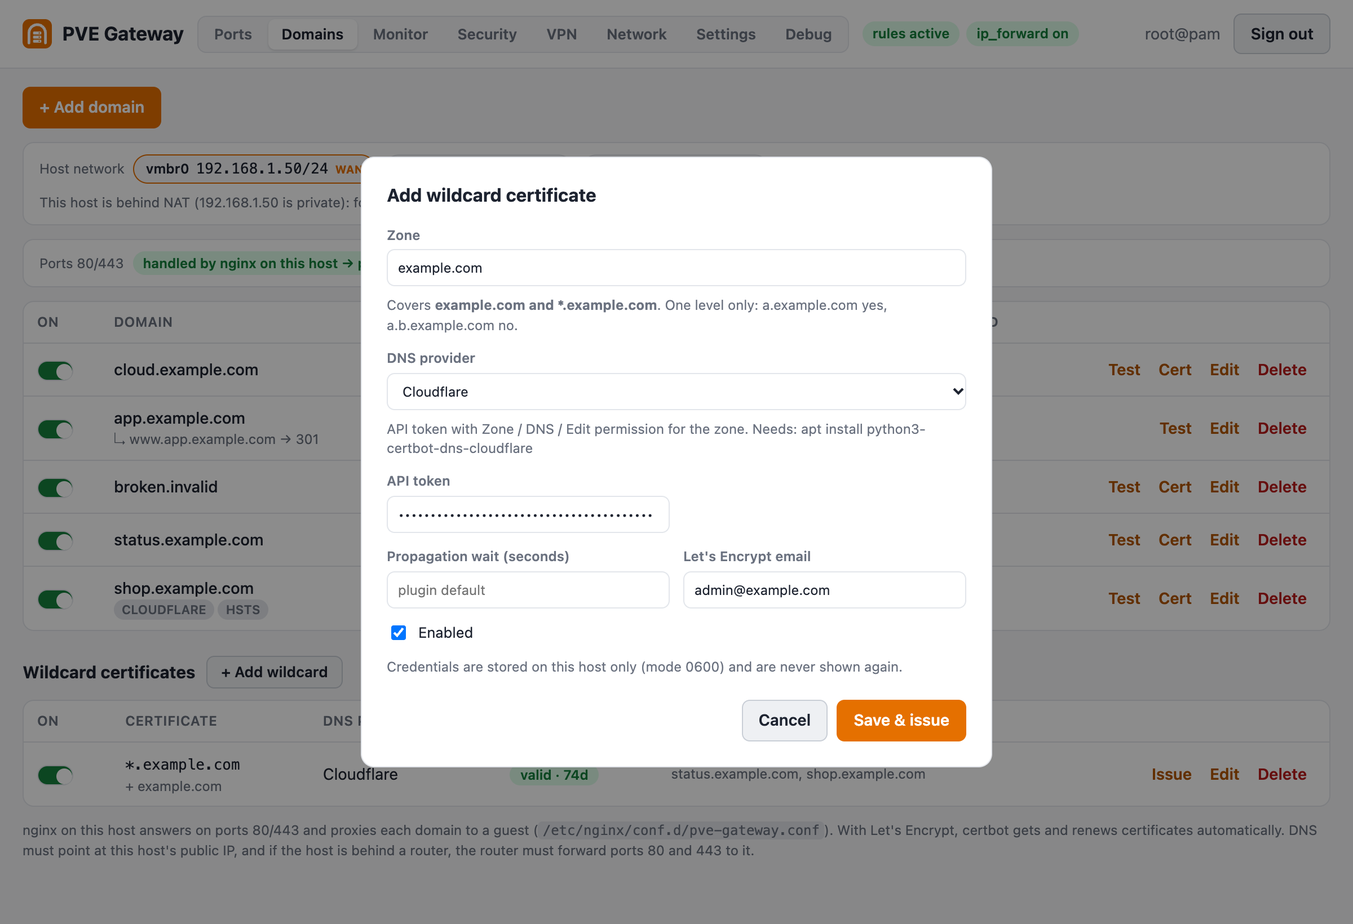
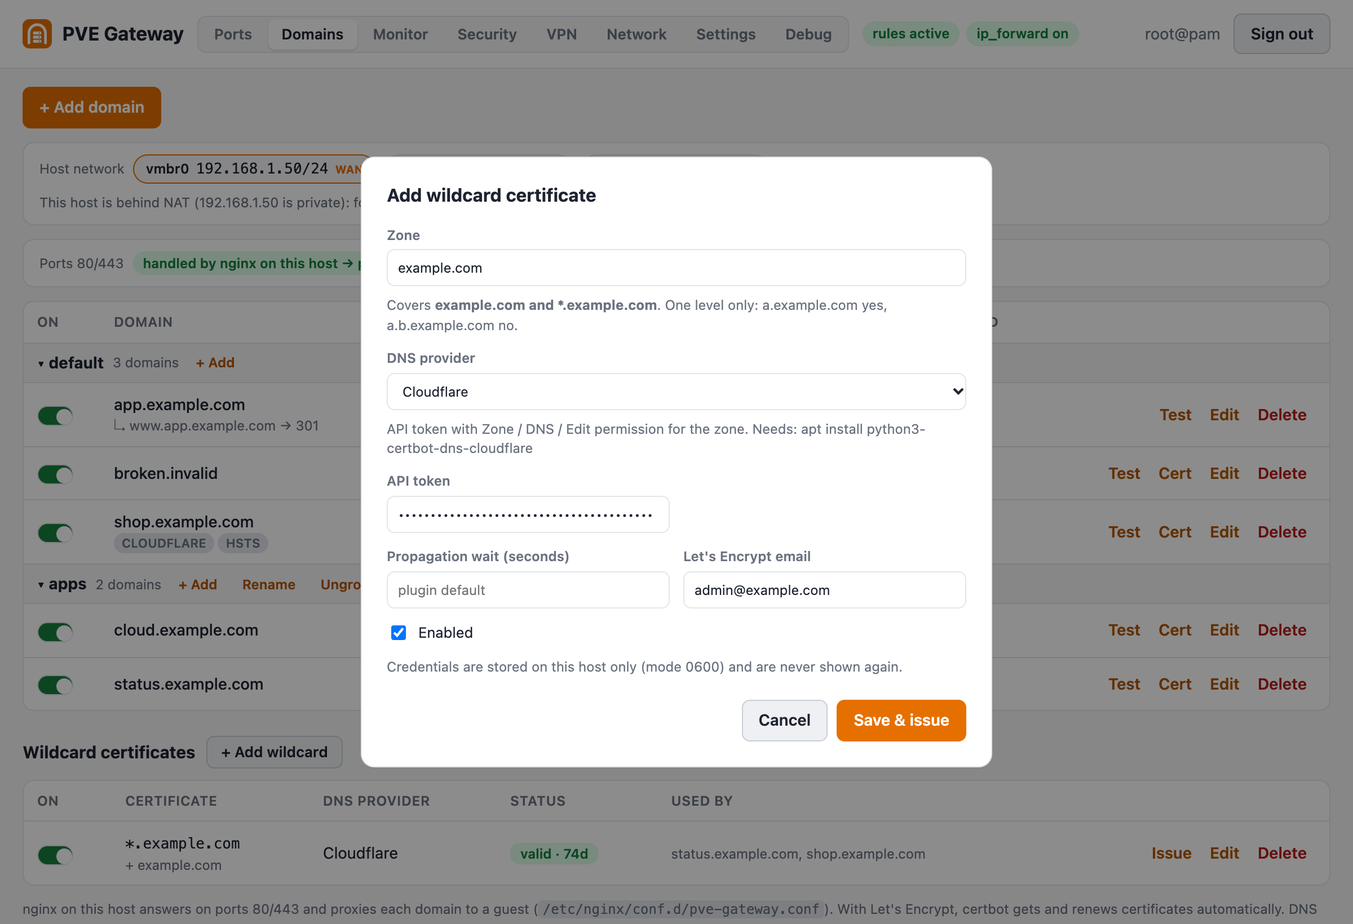
Groups for port rules and domains (v1.9.0)
- `group` on rules and domains (validated, max 30 chars); missing, empty or
  "default" -> "default", so existing configs need no migration; an invalid
  group in a hand-edited config falls back to default instead of dropping the item
- POST /api/groups renames a group or ungroups it (to "default"); listing only,
  nothing is re-applied
- UI: Group field with suggestions in both dialogs; collapsible group sections
  with count, + Add (pre-filled group), Rename, Ungroup; no headers while only
  "default" exists; collapsed state kept in localStorage
- CLI status / domains show the group; mock sample groups; docs, screenshots

diff --git a/pve-gateway.py b/pve-gateway.py
@@ -44,7 +44,7 @@ from collections import deque
 from concurrent.futures import ThreadPoolExecutor
 from http.server import BaseHTTPRequestHandler, ThreadingHTTPServer
 
-VERSION = "1.8.3"  # semantic version; bump it (and CHANGELOG.md) with every user-visible change
+VERSION = "1.9.0"  # semantic version; bump it (and CHANGELOG.md) with every user-visible change
 REPO_URL = "https://github.com/farruxx/pve-gateway"
 REPO_RAW = "https://raw.githubusercontent.com/farruxx/pve-gateway"
 CONF_DIR = os.environ.get("PVE_GATEWAY_DIR") or "/etc/pve-gateway"
@@ -120,6 +120,18 @@ def conf_file():
     return os.path.join(CONF_DIR, "config.json")
 
 
+def _loose_group(item, what):
+    """A bad group name in a hand-edited config only affects the listing - keep the item, put it in "default"."""
+    if not isinstance(item, dict):
+        return item
+    try:
+        clean_group(item.get("group"))
+        return item
+    except ApiError as e:
+        log("%s %r: %s - using the default group" % (what, item.get("name") or item.get("domain") or item.get("id"), e), "warn")
+        return dict(item, group=DEFAULT_GROUP)
+
+
 def load_config():
     cfg = json.loads(json.dumps(DEFAULTS))
     try:
@@ -140,7 +152,7 @@ def load_config():
     rules = []
     for r in cfg.get("rules", []):
         try:
-            rules.append(validate_rule(r, [], cfg, r.get("id")))
+            rules.append(validate_rule(_loose_group(r, "rule"), [], cfg, r.get("id")))
         except (ApiError, ValueError) as e:
             log("skipping invalid rule %r: %s" % (r.get("name") or r.get("id"), e), "warn")
     cfg["rules"] = rules
@@ -189,7 +201,7 @@ def load_config():
     domains = []
     for d in cfg.get("domains", []):
         try:
-            domains.append(validate_domain(d, domains, cfg, d.get("id"), check_rules=False))
+            domains.append(validate_domain(_loose_group(d, "domain"), domains, cfg, d.get("id"), check_rules=False))
         except (ApiError, ValueError) as e:
             log("skipping invalid domain %r: %s" % (d.get("domain") or d.get("id"), e), "warn")
     cfg["domains"] = domains
@@ -321,6 +333,20 @@ def protos(p):
     return ["tcp", "udp"] if p == "both" else [p]
 
 
+GROUP_RE = re.compile(r"^[A-Za-z0-9 _.:/@+-]{1,30}$")
+DEFAULT_GROUP = "default"
+
+
+def clean_group(v):
+    """Rules and domains are shown in groups; anything without one (older configs too) is in "default"."""
+    g = re.sub(r"\s+", " ", str(v or "").strip())
+    if not g or g.lower() == DEFAULT_GROUP:
+        return DEFAULT_GROUP
+    if not GROUP_RE.match(g):
+        raise ApiError("group: up to 30 chars, letters/digits/space/_.:/@+- only")
+    return g
+
+
 def validate_rule(data, others, cfg, rid=None):
     if not isinstance(data, dict):
         raise ApiError("rule must be an object")
@@ -331,6 +357,7 @@ def validate_rule(data, others, cfg, rid=None):
     r["name"] = str(data.get("name", "")).strip()
     if not NAME_RE.match(r["name"]):
         raise ApiError("name: max 40 chars, letters/digits/space/_.:/@+- only")
+    r["group"] = clean_group(data.get("group"))
 
     r["enabled"] = bool(data.get("enabled", True))
     r["proto"] = str(data.get("proto", "tcp")).lower()
@@ -821,6 +848,7 @@ def validate_domain(data, others, cfg, did=None, check_rules=True):
     d["domain"] = str(data.get("domain", "")).strip().lower().rstrip(".")
     if not DOMAIN_RE.match(d["domain"]):
         raise ApiError("invalid domain name '%s' (e.g. cloud.example.com)" % d["domain"])
+    d["group"] = clean_group(data.get("group"))
     aliases = data.get("aliases", [])
     if isinstance(aliases, str):
         aliases = re.split(r"[\s,]+", aliases)
@@ -4210,6 +4238,8 @@ class Handler(BaseHTTPRequestHandler):
         m = re.match(r"^/api/domains(?:/([0-9a-f]{1,16}))?$", path)
         if m:
             return self.domains_api(method, m.group(1), cfg, user)
+        if path == "/api/groups" and method == "POST":
+            return self.groups_api(self.body(), user)
         m = re.match(r"^/api/rules/([0-9a-f]{1,16})/test$", path)
         if m and method == "POST":
             rule = next((r for r in cfg["rules"] if r["id"] == m.group(1)), None)
@@ -4246,6 +4276,27 @@ class Handler(BaseHTTPRequestHandler):
             log("%s %s %s" % (user, method, rid or "new rule"))
         return self.send(200, {"ok": True, "rules": new["rules"]})
 
+
+    def groups_api(self, body, user):
+        """Rename a group of rules or domains; renaming to "default" (or empty) ungroups them. Display only:
+        nothing is re-applied."""
+        kind = body.get("kind")
+        if kind not in ("rules", "domains"):
+            raise ApiError("kind must be rules or domains")
+        old, new_name = clean_group(body.get("from")), clean_group(body.get("to"))
+        with LOCK:
+            cfg = STATE["cfg"]
+            items = [dict(x) for x in cfg[kind]]
+            hit = [x for x in items if x.get("group", DEFAULT_GROUP) == old]
+            if not hit:
+                raise ApiError("group %s not found" % old, 404)
+            for x in hit:
+                x["group"] = new_name
+            new = dict(cfg, **{kind: items})
+            save_config(new)
+            STATE["cfg"] = new
+        log("%s moved %d %s from group %s to %s" % (user, len(hit), kind, old, new_name))
+        return self.send(200, {"ok": True, "moved": len(hit)})
 
     def domains_api(self, method, did, cfg, user):
         with LOCK:
@@ -4866,6 +4917,8 @@ INDEX_HTML = r"""<!doctype html>
       <label class="wide">Domain<input name="domain" required placeholder="cloud.example.com" autocapitalize="off" spellcheck="false"></label>
       <label class="wide">Aliases<input name="aliases" placeholder="www.example.com (optional, space separated)" autocapitalize="off" spellcheck="false"></label>
       <label class="check wide"><input type="checkbox" name="alias_redirect"> Aliases redirect (301) to the main domain instead of showing the same site</label>
+      <label class="wide">Group<input name="group" maxlength="30" list="domGroups" placeholder="default" autocomplete="off"></label>
+      <datalist id="domGroups"></datalist>
       <label class="wide">Guest<select name="guest"><option value="">— pick a guest to fill its IP —</option></select></label>
       <label>Upstream IP<input name="ip" required placeholder="type it or pick a guest" spellcheck="false"></label>
       <label>Upstream port<input name="port" required value="80" inputmode="numeric"></label>
@@ -5069,7 +5122,9 @@ INDEX_HTML = r"""<!doctype html>
   <form id="ruleForm" class="form">
     <h2 id="dlgTitle">Add rule</h2>
     <div class="grid">
-      <label class="wide">Name<input name="name" maxlength="40" placeholder="e.g. web server"></label>
+      <label>Name<input name="name" maxlength="40" placeholder="e.g. web server"></label>
+      <label>Group<input name="group" maxlength="30" list="ruleGroups" placeholder="default" autocomplete="off"></label>
+      <datalist id="ruleGroups"></datalist>
       <label>Protocol<select name="proto"><option value="tcp">TCP</option><option value="udp">UDP</option><option value="both">TCP + UDP</option></select></label>
       <label>Host port<input name="ext_port" required placeholder="8080 or 8000-8010"></label>
       <label class="wide">Guest<select name="guest"><option value="">— pick a guest to fill its IP —</option></select></label>
@@ -5117,6 +5172,9 @@ button.link{background:none;border:1px solid transparent;color:var(--link);paddi
 button.link:hover:not(:disabled){background:var(--btn);border-color:var(--btn-line)}
 button.link.del{color:var(--bad)}button.link.del:hover:not(:disabled){background:var(--bad-bg);border-color:transparent}
 button.link:disabled{color:var(--muted)}
+tr.group-row td{background:var(--bg);padding:5px 12px}.grp-head{display:flex;align-items:center;gap:8px;position:sticky;left:12px;width:max-content}.grp-head .link{font-size:12px;padding:1px 6px}
+tr.group-row:not(:first-child) td{border-top:1px solid var(--line)}
+button.grp-toggle{background:none;border:none;color:var(--fg);padding:2px 0;font-weight:700}
 button.danger{background:var(--bad);border-color:var(--bad);color:var(--accent-fg)}
 dialog.ask{max-width:440px}dialog.ask h2{font-size:16px;margin:0 0 8px}dialog.ask p{margin:0 0 4px;white-space:pre-wrap}
 table{width:100%;border-collapse:collapse;white-space:nowrap}
@@ -5324,9 +5382,54 @@ function render() {
 
   const tb = $('#rules'); tb.replaceChildren();
   $('#empty').hidden = S.rules.length > 0;
-  for (const r of S.rules) {
+  renderGrouped(tb, 'rules', S.rules, 10, 'rule', ruleRow);
+}
+
+// ---- groups: rules and domains are shown per group; "default" first, headers only once a second group exists
+let groupsClosed = {};
+try { groupsClosed = JSON.parse(localStorage.getItem('pvegw.closedGroups') || '{}'); } catch (e) { groupsClosed = {}; }
+function grouped(items) {
+  const m = {};
+  for (const x of items) (m[x.group || 'default'] = m[x.group || 'default'] || []).push(x);
+  return Object.keys(m).sort((a, b) => (a !== 'default') - (b !== 'default') || a.localeCompare(b)).map(g => [g, m[g]]);
+}
+function groupNames(items) { return [...new Set(['default', ...items.map(x => x.group || 'default')])]; }
+function renderGrouped(tb, kind, items, cols, noun, rowFn) {
+  const gs = grouped(items);
+  if (gs.length === 1 && gs[0][0] === 'default') { for (const x of items) tb.append(rowFn(x)); return; }
+  for (const [g, xs] of gs) {
+    const key = kind + ':' + g, closed = !!groupsClosed[key], on = xs.filter(x => x.enabled).length;
+    tb.append(el('tr', {class: 'group-row'}, el('td', {colSpan: cols}, el('div', {class: 'grp-head'},
+      el('button', {class: 'grp-toggle', textContent: (closed ? '▸ ' : '▾ ') + g, 'aria-expanded': String(!closed), onclick: () => {
+        if (closed) delete groupsClosed[key]; else groupsClosed[key] = 1;
+        try { localStorage.setItem('pvegw.closedGroups', JSON.stringify(groupsClosed)); } catch (e) { /* private mode */ }
+        kind === 'rules' ? render() : renderDomains(); }}),
+      el('span', {class: 'muted small', textContent: xs.length + ' ' + noun + (xs.length === 1 ? '' : 's') + (on < xs.length ? ' · ' + (xs.length - on) + ' off' : '')}),
+      el('button', {class: 'link', textContent: '+ Add', title: 'add a ' + noun + ' to this group', onclick: () => kind === 'rules' ? openDlg(null, g) : openDomDlg(null, g)}),
+      g === 'default' ? null : el('button', {class: 'link', textContent: 'Rename', onclick: () => renameGroup(kind, g)}),
+      g === 'default' ? null : el('button', {class: 'link', textContent: 'Ungroup', title: 'move these ' + noun + 's to the default group', onclick: () => renameGroup(kind, g, 'default')})))));
+    if (!closed) for (const x of xs) tb.append(rowFn(x));
+  }
+}
+async function renameGroup(kind, from, to) {
+  if (to === undefined) {
+    to = prompt('New name for group "' + from + '" (empty = default)', from);
+    if (to === null || to.trim() === from) return;
+  }
+  to = to.trim() || 'default';
+  const n = (kind === 'rules' ? S.rules : S.domains).filter(x => (x.group || 'default') === from).length;
+  if (!await ask(to === 'default' ? 'Ungroup "' + from + '"?' : 'Rename group "' + from + '" to "' + to + '"?',
+    'Moves ' + n + ' ' + (kind === 'rules' ? 'rule' : 'domain') + (n === 1 ? '' : 's') + (to === 'default' ? ' to the default group' : '') +
+    '. Only how they are listed changes - nothing is re-applied.', to === 'default' ? 'Ungroup' : 'Rename')) return;
+  const flashFn = kind === 'rules' ? flash : domFlash;
+  try { await api('POST', '/api/groups', {kind, from, to}); flashFn('Group saved'); } catch (e) { flashFn(e.message, true); }
+  load().catch(() => {});
+}
+function fillGroups(list, items) { $(list).replaceChildren(...groupNames(items).map(g => el('option', {value: g}))); }
+
+function ruleRow(r) {
     const c = S.counters[r.id];
-    tb.append(el('tr', {class: r.enabled ? '' : 'off'},
+    return el('tr', {class: r.enabled ? '' : 'off'},
       el('td', {}, el('input', {type: 'checkbox', class: 'switch', checked: r.enabled, title: r.enabled ? 'Disable' : 'Enable',
         onchange: async e => { if (await askToggle(e, 'rule "' + (r.name || r.ext_port) + '"')) save(r.id, Object.assign({}, r, {enabled: e.target.checked})).catch(() => {}); }})),
       el('td', {textContent: r.name || '—'}),
@@ -5340,8 +5443,7 @@ function render() {
       el('td', {class: 'num'},
         el('button', {class: 'link', textContent: 'Test', onclick: () => runTest(r)}),
         el('button', {class: 'link', textContent: 'Edit', onclick: () => openDlg(r)}),
-        el('button', {class: 'link del', textContent: 'Delete', onclick: () => del(r)}))));
-  }
+        el('button', {class: 'link del', textContent: 'Delete', onclick: () => del(r)})));
 }
 
 async function save(id, data) {
@@ -5371,7 +5473,7 @@ async function fillGuests(sel = $('#ruleForm').guest) {
   }
 }
 
-function openDlg(r) {
+function openDlg(r, group) {
   editing = r ? r.id : null;
   const f = $('#ruleForm');
   $('#dlgTitle').textContent = r ? 'Edit rule' : 'Add rule';
@@ -5381,6 +5483,7 @@ function openDlg(r) {
   for (const i of S.ifaces) iface.append(el('option', {value: i, textContent: netLabel(i)}));
   r = r || {proto: 'tcp', enabled: true};
   for (const k of ['name', 'proto', 'ext_port', 'ip', 'int_port', 'source', 'iface']) f[k].value = r[k] || '';
+  fillGroups('#ruleGroups', S.rules); f.group.value = r.id ? (r.group === 'default' ? '' : r.group || '') : group && group !== 'default' ? group : '';
   if (r.iface && !S.ifaces.includes(r.iface)) iface.append(el('option', {value: r.iface, textContent: r.iface, selected: true}));
   f.masq.checked = !!r.masq; f.enabled.checked = r.enabled !== false;
   $('#dlg').showModal();
@@ -5406,11 +5509,11 @@ $('#ruleForm').guest.addEventListener('change', () => pickGuest($('#ruleForm'), 
 $('#ruleForm').addEventListener('submit', async e => {
   e.preventDefault();
   const f = e.target, d = {};
-  for (const k of ['name', 'proto', 'ext_port', 'ip', 'int_port', 'source', 'iface']) d[k] = f[k].value.trim();
+  for (const k of ['name', 'proto', 'ext_port', 'ip', 'int_port', 'source', 'iface', 'group']) d[k] = f[k].value.trim();
   d.masq = f.masq.checked; d.enabled = f.enabled.checked;
   if (!await ask((editing ? 'Save changes to rule ' : 'Create rule ') + '"' + (d.name || d.ext_port) + '"?',
     (d.proto === 'both' ? 'TCP+UDP' : d.proto.toUpperCase()) + ' ' + d.ext_port + ' → ' + d.ip + (d.int_port ? ':' + d.int_port : '') +
-    (d.enabled ? '. iptables is updated right away.' : ' (disabled).'), editing ? 'Save' : 'Create')) return;
+    (d.enabled ? '. iptables is updated right away.' : ' (disabled).') + ' Group: ' + (d.group || 'default') + '.', editing ? 'Save' : 'Create')) return;
   try {
     await api(editing ? 'PUT' : 'POST', editing ? '/api/rules/' + editing : '/api/rules', d);
     $('#dlg').close(); flash('Saved and applied'); load();
@@ -5512,8 +5615,11 @@ function renderDomains() {
   tb.replaceChildren();
   $('#domEmpty').hidden = ds.length > 0;
   const ne = $('#nginxErr'); ne.hidden = !(S.nginx && S.nginx.last_error); ne.textContent = ne.hidden ? '' : S.nginx.last_error;
-  for (const d of ds) {
-    tb.append(el('tr', {class: d.enabled ? '' : 'off'},
+  renderGrouped(tb, 'domains', ds, 7, 'domain', domainRow);
+}
+
+function domainRow(d) {
+    return el('tr', {class: d.enabled ? '' : 'off'},
       el('td', {}, el('input', {type: 'checkbox', class: 'switch', checked: d.enabled, title: d.enabled ? 'Disable' : 'Enable',
         onchange: async e => { if (await askToggle(e, 'domain ' + d.domain)) saveDomain(d.id, Object.assign({}, d, {enabled: e.target.checked})); }})),
       el('td', {class: 'names'}, el('a', {href: (d.tls !== 'none' ? 'https://' : 'http://') + d.domain, target: '_blank', rel: 'noopener', textContent: d.domain}),
@@ -5529,8 +5635,7 @@ function renderDomains() {
         el('button', {class: 'link', textContent: 'Test', onclick: () => runTestUrl('Test: ' + d.domain + ' → ' + d.ip + ':' + d.port, '/api/domains/' + d.id + '/test')}),
         d.tls !== 'none' ? el('button', {class: 'link', textContent: 'Cert', title: 'Request / renew certificate now', onclick: () => cert(d)}) : null,
         el('button', {class: 'link', textContent: 'Edit', onclick: () => openDomDlg(d)}),
-        el('button', {class: 'link del', textContent: 'Delete', onclick: () => delDomain(d)}))));
-  }
+        el('button', {class: 'link del', textContent: 'Delete', onclick: () => delDomain(d)})));
 }
 
 function domFlash(t, isErr) {
@@ -5557,7 +5662,7 @@ async function cert(d) {
 }
 
 let editingDom = null;
-function openDomDlg(d) {
+function openDomDlg(d, group) {
   editingDom = d ? d.id : null;
   const f = $('#domForm');
   $('#domTitle').textContent = d ? 'Edit domain' : 'Add domain';
@@ -5565,6 +5670,7 @@ function openDomDlg(d) {
   d = d || {tls: 'letsencrypt', force_https: true, headers: true, enabled: true, port: 80, max_body: '100m', aliases: [], source: []};
   for (const k of ['alias_redirect', 'hsts', 'headers', 'cloudflare']) f[k].checked = !!d[k];
   f.domain.value = d.domain || ''; f.aliases.value = (d.aliases || []).join(' ');
+  fillGroups('#domGroups', S.domains || []); f.group.value = d.id ? (d.group === 'default' ? '' : d.group || '') : group && group !== 'default' ? group : '';
   f.ip.value = d.ip || ''; f.port.value = d.port || 80; f.upstream_https.checked = !!d.upstream_https;
   f.tls.value = d.tls; f.force_https.checked = d.force_https !== false; f.max_body.value = d.max_body || '100m';
   f.source.value = (d.source || []).join(' '); f.enabled.checked = d.enabled !== false;
@@ -5598,7 +5704,7 @@ $('#domForm').guest.addEventListener('change', () => pickGuest($('#domForm'), fa
 $('#domForm').addEventListener('submit', async e => {
   e.preventDefault();
   const f = e.target, d = {};
-  for (const k of ['domain', 'aliases', 'ip', 'port', 'tls', 'max_body', 'source', 'acme_email']) d[k] = f[k].value.trim();
+  for (const k of ['domain', 'aliases', 'ip', 'port', 'tls', 'max_body', 'source', 'acme_email', 'group']) d[k] = f[k].value.trim();
   d.upstream_https = f.upstream_https.checked; d.force_https = f.force_https.checked; d.enabled = f.enabled.checked;
   for (const k of ['alias_redirect', 'hsts', 'headers', 'cloudflare']) d[k] = f[k].checked;
   if (!await ask((editingDom ? 'Save changes to ' : 'Add domain ') + d.domain + '?', d.domain + ' → ' + (d.upstream_https ? 'https://' : 'http://') +
@@ -6566,7 +6672,8 @@ local development (macOS etc.):
                 tls = ("%s: expires in %s days" % (kind, ci.get("days", "?")) if ci["exists"]
                        else "%s: no certificate yet" % kind if name else "wildcard: none covers it")
             print(fmt % (d["id"], "yes" if d["enabled"] else "no", " ".join(_names(d)),
-                         "%s://%s:%d" % ("https" if d["upstream_https"] else "http", d["ip"], d["port"]), tls))
+                         "%s://%s:%d" % ("https" if d["upstream_https"] else "http", d["ip"], d["port"]), tls)
+                  + ("   [%s]" % d["group"] if d["group"] != DEFAULT_GROUP else ""))
         if cfg["wildcards"]:
             print("\nWILDCARD CERTIFICATES")
             for w in cfg["wildcards"]:
@@ -6606,7 +6713,8 @@ local development (macOS etc.):
                 print(fmt % (r["id"], "yes" if r["enabled"] else "no", r["proto"], r["ext_port"],
                              "%s:%s%s" % (r["ip"], r["int_port"] or r["ext_port"], " (masq)" if r["masq"] else ""),
                              r["source"] or "any", r["iface"] or "any",
-                             "%d pkts / %d B" % tuple(c) if c else "-") + ("   " + r["name"] if r["name"] else ""))
+                             "%d pkts / %d B" % tuple(c) if c else "-") + ("   " + r["name"] if r["name"] else "")
+                      + ("   [%s]" % r["group"] if r["group"] != DEFAULT_GROUP else ""))
     elif a.cmd == "test":
         sel = [r for r in cfg["rules"] if (r["id"] in a.rules or r["name"] in a.rules or r["ext_port"] in a.rules)
                or (not a.rules and r["enabled"])]

diff --git a/dev/mock.py b/dev/mock.py
@@ -100,10 +100,10 @@ IN HTTPS(ACCEPT) -log nolog
 
 # rules seeded into a fresh ./.dev config, chosen to show every test outcome
 SAMPLE_RULES = [
-    {"name": "web", "proto": "tcp", "ext_port": "8080", "ip": "10.10.10.10", "int_port": "80"},
+    {"name": "web", "proto": "tcp", "ext_port": "8080", "ip": "10.10.10.10", "int_port": "80", "group": "web"},
     {"name": "db ssh", "proto": "tcp", "ext_port": "2222", "ip": "10.10.10.11", "int_port": "22", "source": "203.0.113.0/24"},
-    {"name": "game", "proto": "both", "ext_port": "27015-27020", "ip": "10.10.10.12"},                # guest stopped
-    {"name": "nextcloud tls", "proto": "tcp", "ext_port": "8443", "ip": "10.10.10.13", "int_port": "443"},  # refused
+    {"name": "game", "proto": "both", "ext_port": "27015-27020", "ip": "10.10.10.12", "group": "games"},                # guest stopped
+    {"name": "nextcloud tls", "proto": "tcp", "ext_port": "8443", "ip": "10.10.10.13", "int_port": "443", "group": "web"},  # refused
     {"name": "rdp", "proto": "tcp", "ext_port": "3389", "ip": "10.10.10.14", "iface": "vmbr0"},    # no ping, tcp ok
     {"name": "office", "proto": "tcp", "ext_port": "9443", "ip": "192.168.50.20", "int_port": "443", "masq": True},
     {"name": "old test", "proto": "udp", "ext_port": "5000", "ip": "10.10.10.10", "enabled": False},
@@ -112,11 +112,11 @@ SAMPLE_RULES = [
 # domains seeded into a fresh ./.dev config
 SAMPLE_DOMAINS = [
     {"domain": "cloud.example.com", "ip": "10.10.10.13", "port": 80, "tls": "letsencrypt", "max_body": "10g",
-     "headers": True},                                          # cert ok
+     "headers": True, "group": "apps"},                                          # cert ok
     {"domain": "app.example.com", "aliases": "www.app.example.com", "ip": "10.10.10.10", "port": 80, "tls": "none",
      "alias_redirect": True},                                   # www -> 301 to app; has a stray AAAA record
     {"domain": "broken.invalid", "ip": "10.10.10.11", "port": 8080, "tls": "letsencrypt"},  # no DNS, nothing on 8080
-    {"domain": "status.example.com", "ip": "10.10.10.10", "port": 80, "tls": "wildcard"},  # uses *.example.com
+    {"domain": "status.example.com", "ip": "10.10.10.10", "port": 80, "tls": "wildcard", "group": "apps"},  # uses *.example.com
     {"domain": "shop.example.com", "ip": "10.10.10.10", "port": 443, "upstream_https": True, "tls": "wildcard",
      "cloudflare": True, "headers": True, "hsts": True},       # behind the Cloudflare proxy
 ]

diff --git a/README.md b/README.md
@@ -33,6 +33,7 @@ A small web UI that turns a Proxmox VE host into the gateway for its VMs and con
 - **Guest picker.** It lists local VMs and CTs with their IPs (from the QEMU guest agent, the host's ARP table, cloud-init or the LXC config; see [Guest IPs](#guest-ips)).
 - **Host network at a glance.** The Ports and Domains tabs show the host's interfaces and IPs (public, WAN, guest bridges) with tips on where DNS and routers should point.
 - Supports TCP, UDP or both, port ranges, a source IP/CIDR allow-list, an incoming interface, optional masquerade, and shows per-rule hit counters.
+- **Groups.** Port rules and domains can be put into groups (e.g. *web*, *games*). Each group is a collapsible section with its own **+ Add**, **Rename** and **Ungroup**. Anything without a group, including everything saved by older versions, stays in **default**. While all items are in default, the tables look as before. Groups only change how items are listed; they don't affect iptables or nginx.
 - **Guard rails.** It refuses to forward 22, 8006, 3128, 111, 5405-5412 or its own port. Only traffic **addressed to the host** is forwarded (`-m addrtype --dst-type LOCAL`), so guests' outgoing traffic is never hijacked.
 - A watchdog re-hooks the chains if something flushes iptables, and rules are restored at boot.
 
@@ -337,6 +338,7 @@ Rules are stored here too. Restart the service after editing it by hand.
 - `allowed_users`: Proxmox users allowed to log in. Accounts with TFA enabled aren't supported; use `passwd` instead.
 - `forward_accept`: adds narrow `ACCEPT` rules in `FORWARD` for the forwarded flows. They're inserted before `PVEFW-FORWARD`, so if the Proxmox firewall is on for a guest, a forwarded port bypasses that guest's firewall. Use the rule's *Allowed source* field to restrict access.
 - `listen`: set it to a LAN IP (e.g. `192.168.1.10`) to keep the UI off the public interface.
+- `group` (on each rule and domain): the group it's listed under; missing or invalid means `default`.
 
 ## Trusted HTTPS (Let's Encrypt)
 

diff --git a/CHANGELOG.md b/CHANGELOG.md
@@ -4,6 +4,13 @@ All notable changes to pve-gateway. Versions follow [semantic versioning](https:
 `VERSION` in `pve-gateway.py`. The **Update** button in Settings (and `pve-gateway update`) installs the latest version
 from GitHub and shows the entries below that are newer than the installed one.
 
+## 1.9.0 - 2026-10-16
+- Groups for port rules and domains: a Group field in the add / edit dialogs (with existing groups suggested) and
+  collapsible group sections in the tables with a count, "+ Add" (pre-fills the group), Rename and Ungroup.
+  New items and everything from older configs stay in the "default" group; with only "default" the tables look as
+  before. Groups only change the listing, nothing is re-applied. Collapsed groups are remembered in the browser.
+- CLI: `status` and `domains` show the group.
+
 ## 1.8.3 - 2026-10-16
 - Every create, edit, delete, enable/disable, apply and install action now asks for confirmation first, in a dialog
   that says what will change (port rules, domains, wildcards, checks, alerts, WireGuard, firewall, fail2ban, SDN,
